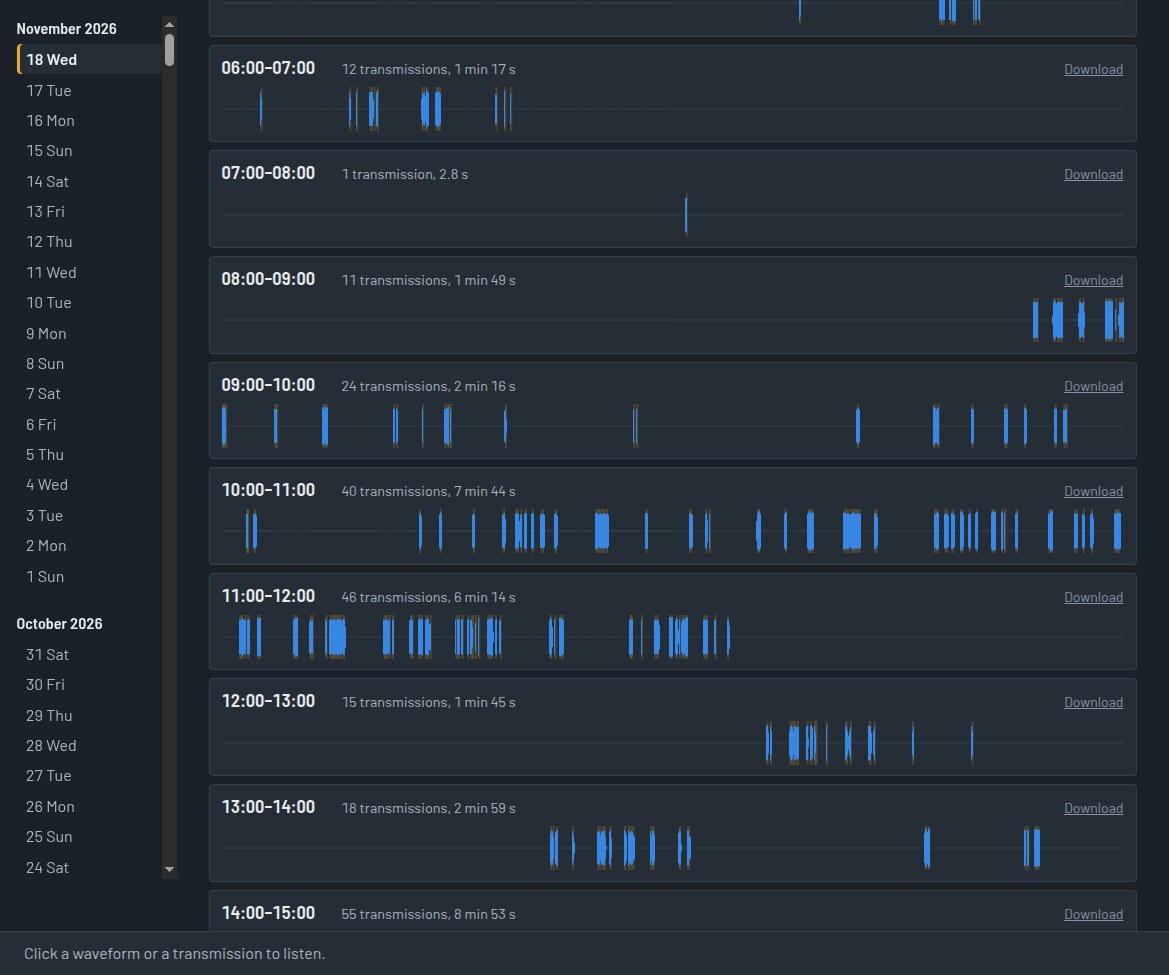
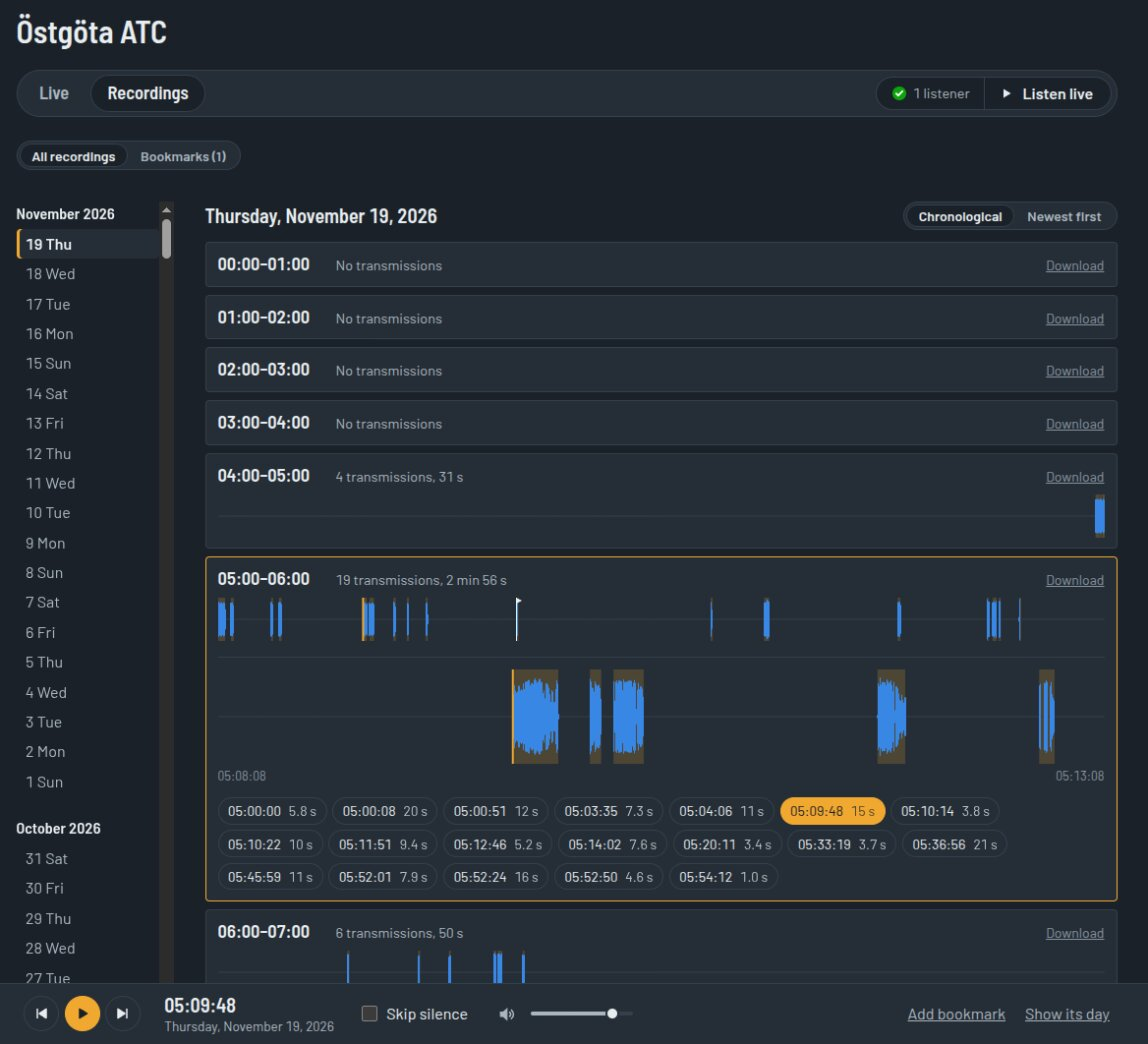
README: step-by-step setup and new screenshots
- Requirements, and setup either with the deploy script or by hand on
  the host, with an example .env that includes HUB_TITLE and
  HUB_ADMIN_PASSPHRASE.
- Notes on https for the low-latency player and on backing up hub.db.
- New screenshots of the dashboard and the recordings browser.
- PLAN: refresh the next steps and ideas.

diff --git a/README.md b/README.md
@@ -11,8 +11,8 @@
 </p>
 
 <p align="center">
-  <img src="docs/dashboard.jpg" alt="The live dashboard: one strip per scanned frequency with a level meter, recent transmissions and receiver health" width="49%">
-  <img src="docs/recordings.jpg" alt="The recordings browser: a waveform per recorded hour, with the day list on the left" width="49%">
+  <img src="docs/dashboard.jpg" alt="The live dashboard: one strip per scanned frequency with a level meter, recent transmissions grouped per frequency, and receiver health" width="49%">
+  <img src="docs/recordings.jpg" alt="The recordings browser: a waveform per recorded hour, one hour opened in the detail view with its transmissions, a bookmark flag, and the player bar" width="49%">
 </p>
 
 ---
@@ -74,27 +74,64 @@ not in an upstream release yet.
 
 ## Quick start
 
+You need:
+
+- a Linux host with Docker and Docker Compose v2, e.g. a Raspberry Pi 4 (arm64) or a PC (amd64)
+- an RTL-SDR dongle on that host
+- an `rtl_airband.conf` for your frequencies
+
 The repository contains a Docker Compose stack with both rtl_airband and the hub. GitHub Actions
 publishes both images for amd64 and arm64: `ghcr.io/ap-andersson/airband-hub` and
 `ghcr.io/ap-andersson/rtlsdr-airband` (AM only, from the
-[RTLSDR-Airband fork](https://github.com/ap-andersson/RTLSDR-Airband)). The deploy script copies the
-compose files to the host over ssh, pulls the images and starts the stack:
+[RTLSDR-Airband fork](https://github.com/ap-andersson/RTLSDR-Airband)).
+
+### 1. Put the stack on the host
+
+**With the deploy script** (from another machine, over ssh). It copies the compose files to the
+host, creates `.env` with a random `HUB_SOURCE_PASSWORD` the first time, pulls the images and
+starts the stack. Run it again to update.
 
 ```bash
 git clone https://github.com/ap-andersson/airband-hub.git
 cd airband-hub
 cp deploy.env.example deploy.env   # set DEPLOY_HOST (ssh target) and DEPLOY_DIR
-scripts/deploy.sh                  # pull the images, start or update the stack
+scripts/deploy.sh
 ```
 
 To try changes before they are pushed, `scripts/deploy.sh --build` syncs this repository and an
 RTLSDR-Airband checkout (`AIRBAND_SRC` in `deploy.env`) to the host and builds both images there.
 Running it without `--build` goes back to the published images.
 
-The first deploy creates `DEPLOY_DIR/.env` (mode 600) with a random `HUB_SOURCE_PASSWORD`. Set
-`AIRBAND_CONFIG` and `HUB_RECORDINGS_HOST_DIR` in that file, and `COMPOSE_PROFILES=airband` to
-start rtl_airband (see [Stack settings](#stack-settings)). In your `rtl_airband.conf`, enable the
-metrics endpoint and point an `icecast` output at the hub:
+**By hand**, on the host itself:
+
+```bash
+mkdir -p ~/airband-hub/data ~/airband-hub/recordings && cd ~/airband-hub
+curl -fsSLO https://raw.githubusercontent.com/ap-andersson/airband-hub/main/deploy/compose.yml
+printf 'HUB_SOURCE_PASSWORD=%s\n' "$(openssl rand -hex 16)" > .env && chmod 600 .env
+```
+
+The hub runs as uid/gid 1000 and writes to `data/`, so that folder must belong to that user (or
+set `HUB_UID`/`HUB_GID`).
+
+### 2. Fill in `.env`
+
+Next to `compose.yml`. A typical one:
+
+```bash
+HUB_SOURCE_PASSWORD=...                    # created above; rtl_airband's icecast output uses it
+COMPOSE_PROFILES=airband                   # start rtl_airband too
+AIRBAND_CONFIG=/home/pi/rtl_airband.conf   # your config
+HUB_RECORDINGS_HOST_DIR=/home/pi/recordings
+HUB_HOST_PORT=80
+HUB_TITLE=My airband                       # optional; else the stream's name
+HUB_ADMIN_PASSPHRASE=...                   # needed to add, rename or delete bookmarks
+```
+
+All settings are listed under [Configuration](#configuration).
+
+### 3. Point rtl_airband at the hub
+
+In your `rtl_airband.conf`, enable the metrics endpoint and point an `icecast` output at the hub:
 
 ```
 metrics_listen = "0.0.0.0:9101";
@@ -127,7 +164,22 @@ devices: ({
 });
 ```
 
-Then open `http://<host>:8090/` for the dashboard, or play `http://<host>:8090/atc.mp3` in VLC.
+### 4. Start it
+
+```bash
+docker compose up -d     # the deploy script does this for you
+```
+
+Then open `http://<host>:8090/` for the dashboard (or the `HUB_HOST_PORT` you chose), or play
+`http://<host>:8090/atc.mp3` in VLC.
+
+Two things to know:
+
+- The browser player runs about half a second behind the receiver, but only on https (or
+  localhost); over plain http browsers fall back to their own buffering, 5 to 20 s behind. Put
+  the hub behind a reverse proxy with https if you want that, or, in Firefox, add the host to
+  `dom.securecontext.allowlist` in `about:config`.
+- Back up `data/hub.db`: it holds your bookmarks. The rest of `data/` is a cache.
 
 > [!NOTE]
 > Viewing and listening are open to anyone who can reach the hub: the dashboard, the live
@@ -170,7 +222,7 @@ These also go in `DEPLOY_DIR/.env`, and are read by `deploy/compose.yml`:
 | `HUB_RECORDINGS_HOST_DIR` | `./recordings` | Where the config's file outputs write. rtl_airband sees it as `/recording`; the hub reads it read-only. |
 | `HUB_HOST_PORT` | `8090` | Host port for the hub |
 | `AIRBAND_METRICS_HOST_PORT` | `8080` | Host port for rtl_airband's `/metrics`, for Prometheus |
-| `HUB_UID`, `HUB_GID` | `1000` | Owner of `data/`, the waveform cache |
+| `HUB_UID`, `HUB_GID` | `1000` | The user the hub runs as; it must own `data/` |
 | `AIRBAND_IMAGE`, `HUB_IMAGE` | the `:latest` images on ghcr.io | Other images or tags, e.g. a `:sha-<commit>` to pin a version |
 | `COMPOSE_FILE` | `compose.yml` | `compose.yml:compose.legacy.yml` lets the hub run next to an older rtl_airband container, by joining its network (`AIRBAND_NETWORK`, default `rtlsdr-airband_default`) |
 

diff --git a/PLAN.md b/PLAN.md
@@ -120,16 +120,18 @@ Prometheus ── scrapes airband /metrics directly
 - [x] Publish images: GitHub Actions builds both images for amd64 and arm64 on native runners and publishes them to ghcr. The fork's upstream workflows are kept but only run by hand. `deploy.sh` pulls the images, and `--build` still builds on the host.
 - [x] Store the transmission history in SQLite too (`hub.db`, D13): the last 36 hours, loaded back on start, so the dashboard's history survives restarts.
 - [ ] Show more of the stored history than the 50 most recent transmissions (per frequency, per hour).
-- [ ] Pull requests for the two RTLSDR-Airband branches (`dev/metrics_endpoint`, `dev/docker_build_options`, both pushed), first to the fork and maybe upstream later.
+- [ ] Offer the metrics endpoint upstream (now on the fork's main) as a pull request to RTLSDR-Airband.
 - [ ] Config editing (the end goal): edit `rtl_airband.conf`, starting with the scan list, in the hub. Back it up before writing, then restart (D12).
 - [ ] Check the dashboard at phone width and in light mode.
+- [x] New screenshots for the README.
 
 **Ideas**
 - Set the title from the metrics when squelch opens, so it survives hub restarts and updates on every transmission
 - Continue playback into the next hour
 - Zoom the waveform by dragging
 - A whole-day "transmissions only" playlist
-- A low-latency path: `udp_stream` PCM sent to the browser over WebSocket
+- A cap on live listeners, so a busy link cannot starve the Pi
+- Build the rtl_airband image against the RTL-SDR Blog driver fork, and include `rtl_test`
 - The hub's own metrics (listeners, relay health)
 
 ## Findings
